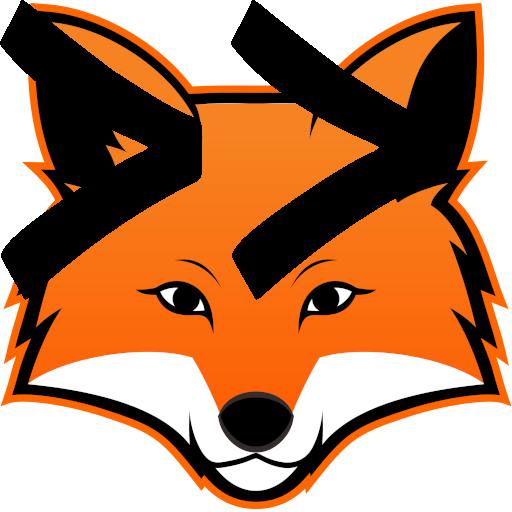
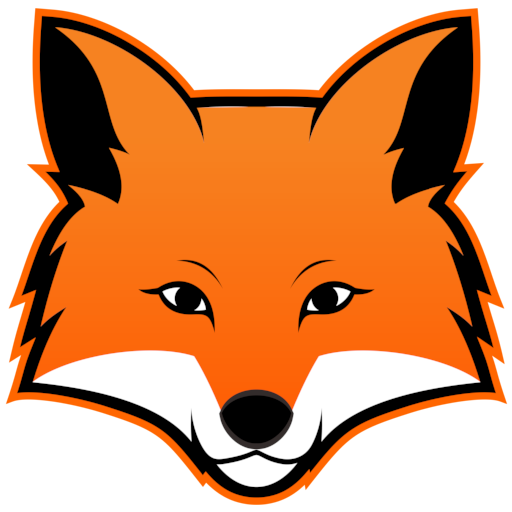
Fix bugs, make searchbar work with keys

diff --git a/FoxDotEditor/FoxDotEditor/SampleChart.py b/FoxDotEditor/FoxDotEditor/SampleChart.py
@@ -88,7 +88,7 @@ class SampleChart:
         self.dict_loops = []
         # First go through all letters and get file paths in upper and lower
         # Fill dictionary with letters as key and file names of audio as values
-        self.sp_path_l = str(SAMPLES_DIR_PATH) + "/" + spack_id + "/"
+        self.sp_path_l = os.path.join(SAMPLES_DIR_PATH, spack_id, "")
         self.dir_list_l = []
 
         for filename in os.listdir(self.sp_path_l):
@@ -99,7 +99,10 @@ class SampleChart:
 
         for i in self.dir_list_l:
             if i != "_" and i != "_loop_":
-                self.new_path = self.sp_path_l + str(i) + "/lower/"
+                self.new_path = os.path.join(self.sp_path_l,
+                                             str(i),
+                                             "lower",
+                                             "")
                 # self.smpl_list = os.path.isdir(self.new_path)
                 self.smpl_list = [
                     f for f in os.listdir(self.new_path)
@@ -111,7 +114,10 @@ class SampleChart:
                         self.smpl_list.remove(n)
                 self.dict_letters[i.upper()] = self.smpl_list
                 self.dict_letters[i] = self.smpl_list
-                self.new_path = self.sp_path_l + str(i) + "/upper/"
+                self.new_path = os.path.join(self.sp_path_l,
+                                             str(i),
+                                             "upper",
+                                             "")
                 self.smpl_list = [
                     f for f in os.listdir(self.new_path)
                     if os.path.isfile(os.path.join(self.new_path, f))
@@ -124,14 +130,17 @@ class SampleChart:
 
         # Fill dictionary with specials as key and file names of
         # audio as values
-        self.sp_path_s = self.sp_path_s = str(SAMPLES_DIR_PATH)+"/"+spack_id+"/_/"
+        self.sp_path_s = self.sp_path_s = os.path.join(SAMPLES_DIR_PATH,
+                                                       str(spack_id),
+                                                       "_",
+                                                       "")
         self.dir_list_s = []
         for filename in os.listdir(self.sp_path_s):
             if os.path.isdir(os.path.join(self.sp_path_s, filename)):
                 self.dir_list_s.append(filename)
         self.dir_list_s.sort()
         for j in self.dir_list_s:
-            self.new_path = self.sp_path_s + str(j) + "/"
+            self.new_path = os.path.join(self.sp_path_s, str(j), "")
             self.smpl_list = [
                 f for f in os.listdir(self.new_path)
                 if os.path.isfile(os.path.join(self.new_path, f))
@@ -142,7 +151,9 @@ class SampleChart:
                     self.smpl_list.remove(n)
             self.dict_specials[j] = self.smpl_list
         # Fill dictionary with loops as value
-        self.sp_path_loops = str(SAMPLES_DIR_PATH)+"/"+spack_id+"/"+FOXDOT_LOOP
+        self.sp_path_loops = os.path.join(str(SAMPLES_DIR_PATH),
+                                          spack_id,
+                                          FOXDOT_LOOP)
         self.smpl_list = [
             f for f in os.listdir(self.sp_path_loops)
             if os.path.isfile(os.path.join(self.sp_path_loops, f))

diff --git a/FoxDotEditor/FoxDotEditor/SearchBar.py b/FoxDotEditor/FoxDotEditor/SearchBar.py
@@ -21,20 +21,23 @@ class SearchBar:
         self.sb_label.grid(row=0, column=0, padx=10)
         self.search_entry = tb.Entry(
             self.sb_frame, width=40, justify="left")
-        self.search_entry.grid(row=0, column=1, padx=10)
-        self.search_btn = tb.Button(
-            self.sb_frame, text="Search", command=self.search_task)
-        self.search_btn.grid(row=0, column=2, padx=10, pady=5, sticky="e")
-        # self.root.bind('<Return>', self.search_task)
+        self.search_entry.grid(row=0, column=1, pady=5, padx=10)
+        self.sb_label2 = tb.Label(
+            self.sb_frame, text="ENTER to search << >> 2 x TAB to get back!")
+        self.sb_label2.grid(row=0, column=2, pady=5, padx=10)
+        # self.search_btn = tb.Button(
+        #     self.sb_frame, text="Search", command=self.search_task)
+        # self.search_btn.grid(row=0, column=2, padx=10, pady=5, sticky="e")
+        self.root.bind('<Return>', self.search_task)
 
     def reset_list(self):
         if self.search != self.search_entry.get():
             self.search_list.clear()
             self.parent.text.tag_remove(SEL, "1.0", "end-1c")
 
-    def search_task(self):
+    def search_task(self, event):
         self.reset_list()
-        self.parent.text.focus_set()
+        # self.parent.text.focus_set()
         self.search = self.search_entry.get()
 
         if self.search:
@@ -42,7 +45,10 @@ class SearchBar:
                 self.idx = "1.0"
             else:
                 self.idx = self.search_list[-1]
-            self.idx = self.parent.text.search(self.search, self.idx, nocase=1, stopindex=END)
+            self.idx = self.parent.text.search(self.search,
+                                               self.idx,
+                                               nocase=1,
+                                               stopindex=END)
             self.lastidx = '%s+%dc' % (self.idx, len(self.search))
             try:
                 self.parent.text.tag_remove(SEL, "1.0", self.lastidx)
@@ -67,4 +73,5 @@ class SearchBar:
 
     def show(self):
         self.sb_frame.grid()
+        self.search_entry.focus()
         return

diff --git a/FoxDotEditor/FoxDotEditor/MidiMapper.py b/FoxDotEditor/FoxDotEditor/MidiMapper.py
@@ -146,12 +146,7 @@ class MidiMapper:
                              column=0,
                              columnspan=2,
                              padx=20,
-                             pady=5,        # Clear boxes
-        # self.name_entry.delete(0, END)
-        # self.name_entry.insert(0, "U0:E0")
-        # self.types_drpdwn.set("Choose Type")
-        # self.cc_drpdwn.set("Choose CC #")
-        # self.val_drpdwn.set("Choose Range")
+                             pady=5,
                              sticky="W")
         self.valmap_info = tb.Button(self.mm_top,
                                      text="ValMap Info",
@@ -442,7 +437,7 @@ class MidiMapper:
         self.filename = tkFileDialog.askopenfilename(
             title="Load Midi Map",
             filetypes=[("JSON files", ".json")],
-            initialdir=FOXDOT_MIDI_MAPS + '/',
+            initialdir=os.path.join(FOXDOT_MIDI_MAPS, ""),
             defaultextension=".json")
         if self.filename:
             new_name = os.path.split(self.filename)[1]
@@ -476,7 +471,7 @@ class MidiMapper:
         self.filename = tkFileDialog.asksaveasfilename(
             title="Save Midi Map",
             filetypes=[("JSON files", ".json")],
-            initialdir=FOXDOT_MIDI_MAPS + '/',
+            initialdir=os.path.join(FOXDOT_MIDI_MAPS, ""),
             defaultextension=".json")
         if self.filename:
             # Get data from treeview list
@@ -509,7 +504,6 @@ class MidiMapper:
                 vals.append(self.items_list.item(line)["values"][0])
                 vals.append(self.items_list.item(line)["values"][3])
                 tmp_list.append(vals)
-            print(tmp_list)
             for element in tmp_list:
                 vmf_dict[name][element[0]] = [element[1], {}]
             # Save it into a json file
@@ -517,7 +511,7 @@ class MidiMapper:
             self.filename = tkFileDialog.asksaveasfilename(
                 title="Save Value Map",
                 filetypes=[("JSON files", ".json")],
-                initialdir=FOXDOT_ROOT,
+                initialdir=os.path.join(FOXDOT_ROOT, ""),
                 defaultextension=".json")
             if self.filename:
                 # Get data from treeview list

diff --git a/FoxDotEditor/FoxDotEditor/Preferences.py b/FoxDotEditor/FoxDotEditor/Preferences.py
@@ -392,15 +392,15 @@ class Preferences:
             self.a1, textvariable=self.font)
         self.entry_font.grid(column=0, row=6, padx=self.padx, pady=self.padx/2,
                              sticky="nw")
-        self.tgl_use_alpha = tb.Checkbutton(
-            self.a1, text="Use Alpha", variable=self.use_alpha,
-            style='Roundtoggle.Toolbutton')
-        self.tgl_use_alpha.grid(column=0, row=7, padx=self.padx,
-                                pady=self.padx, sticky="nw")
+        # self.tgl_use_alpha = tb.Checkbutton(
+        #     self.a1, text="Use Alpha", variable=self.use_alpha,
+        #     style='Roundtoggle.Toolbutton')
+        # self.tgl_use_alpha.grid(column=0, row=7, padx=self.padx,
+        #                         pady=self.padx, sticky="nw")
         self.tgl_alpha_start = tb.Checkbutton(
             self.a1, text="Transparent on Start", variable=self.alpha_start,
             style='Roundtoggle.Toolbutton')
-        self.tgl_alpha_start.grid(column=0, row=8, padx=self.padx,
+        self.tgl_alpha_start.grid(column=0, row=7, padx=self.padx,
                                   pady=self.padx, sticky="nw")
         # COLOR CHOICE
         self.lbl_colorlist = tb.Label(self.a3, text="Text Colors Editor")

diff --git a/FoxDotEditor/FoxDotEditor/Editor.py b/FoxDotEditor/FoxDotEditor/Editor.py
@@ -48,7 +48,7 @@ class workspace:
         # Configure Renardo's namespace to include the editor
         CodeClass.namespace['GUI'] = self
         CodeClass.namespace['Player'].widget = self
-        self.version = this_version = '0.9.13'
+        self.version = this_version = '0.9.14'
         pypi_version = get_pypi_version()
         self.theme = COLOR_THEME
 
@@ -78,10 +78,12 @@ class workspace:
         self.root.grid_columnconfigure(1, weight=0)  # line numbers
         self.root.grid_columnconfigure(2, weight=1)  # Scrollbars
         self.root.protocol("WM_DELETE_WINDOW", self.kill)
+        self.style = tb.Style()
+        self.root.style.master
         # Track whether user wants transparent background
-        self.transparent = BooleanVar()
-        self.transparent.set(False)
         self.using_alpha = USE_ALPHA
+        self.transparent = BooleanVar()
+        self.transparent.set(self.using_alpha)
         # Boolean for connection
         self.listening_for_connections = BooleanVar()
         self.listening_for_connections.set(False)
@@ -145,6 +147,7 @@ class workspace:
         # Create y-axis scrollbar
         self.y_scroll = tb.Scrollbar(self.root)
         self.y_scroll.grid(row=0, column=3, sticky='ns')
+        # Add OpenGl frame
         # Create text box for code
         self.text = ThreadedText(self.root,
                                  padx=5,
@@ -621,6 +624,7 @@ class workspace:
     def open_midi_mapper_app(self):
         try:
             midi_mapper = MidiMapper()
+            pass
         except OSError as e:
             print(e)
             print("Hmm... Looks like we couldn't open the midi mapper app.")

diff --git a/FoxDotEditor/FoxDotEditor/Treeview.py b/FoxDotEditor/FoxDotEditor/Treeview.py
@@ -41,8 +41,10 @@ class TreeView:
         # This dictionary maps the treeview items IDs with the
         # path of the file or folder.
         self.fsobjects: dict[str, Path] = {}
-        self.file_image = PhotoImage(file=FOXDOT_EDITOR_ROOT+"/img/file.png")
-        self.folder_image = PhotoImage(file=FOXDOT_EDITOR_ROOT+"/img/folder.png")
+        file_img_path = os.path.join(FOXDOT_EDITOR_ROOT, "img", "file.png")
+        folder_img_path = os.path.join(FOXDOT_EDITOR_ROOT, "img", "folder.png")
+        self.file_image = PhotoImage(file=file_img_path)
+        self.folder_image = PhotoImage(file=folder_img_path)
         # Load the user directory.
         self.home_path = str(Path.home())
         self.load_tree(Path(os.path.expanduser(self.home_path)))

diff --git a/FoxDotEditor/FoxDotEditor/TextBox.py b/FoxDotEditor/FoxDotEditor/TextBox.py
@@ -36,8 +36,8 @@ class ThreadedText(Text):
         return self.lines
 
     def update(self):
-        """ Recursively called method that monitors as
-            queue of Tkinter tasks.
+        """
+        Recursively called method that monitors as queue of Tkinter tasks.
         """
         try:
             while True:

diff --git a/renardo_lib/renardo_lib/Midi.py b/renardo_lib/renardo_lib/Midi.py
@@ -111,7 +111,7 @@ class MidiIn:
 
         self.device.open_port(port_id)
         self.device.ignore_types(timing=False)
-        self.mmap_path = FOXDOT_MIDI_MAPS + "/"
+        self.mmap_path = os.path.join(FOXDOT_MIDI_MAPS, "")
         self.mmaps = []
         self.midimap_name = ""
         self.valmap_name = ""
@@ -418,7 +418,7 @@ class MidiIn:
                                     self.new_val = round(self.new_val, 3)
                                     self.command = self.command + f"{attr}={self.new_val}; "
                                 except Exception:
-                                    print(f"Slot: {cnt_num} empty")
+                                    pass
                             self.midi_exe(self.command)
                             unit = self.name.split(":")[0]
                             new_val = round(value/127, 3)

diff --git a/FoxDotEditor/FoxDotEditor/Console.py b/FoxDotEditor/FoxDotEditor/Console.py
@@ -138,7 +138,7 @@ class console:
             new_height = (self.canvas.winfo_height() +
                           (widget_y - event.y_root))
             self.height, old_height = new_height, self.height
-            self.canvas.configure(height=max(self.height, 200))
+            self.canvas.configure(height=max(self.height, 50))
             return "break"
 
     def update(self):

diff --git a/FoxDotEditor/FoxDotEditor/tkimport.py b/FoxDotEditor/FoxDotEditor/tkimport.py
@@ -5,6 +5,7 @@ import ttkbootstrap as tb
 from ttkbootstrap.constants import *
 from ttkbootstrap.scrolled import ScrolledText
 from ttkbootstrap.dialogs import Messagebox
+from ttkbootstrap import Style
 
 if sys.version_info[0] >= 3:
     from tkinter import *